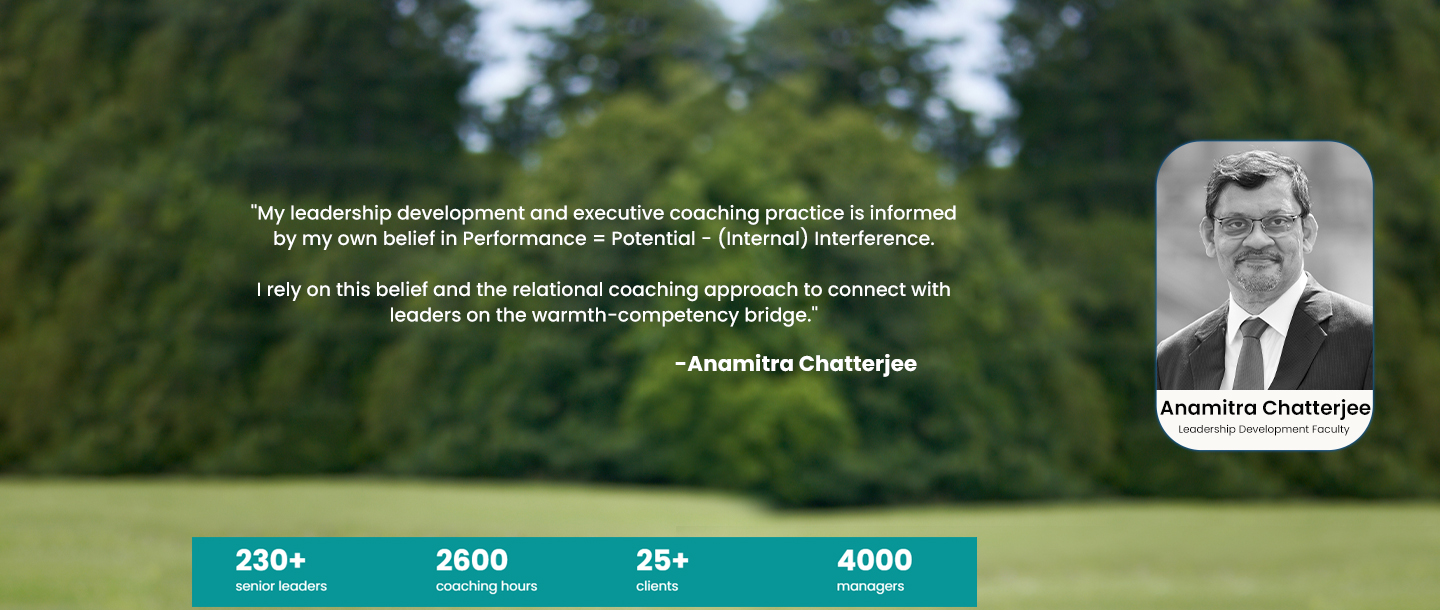
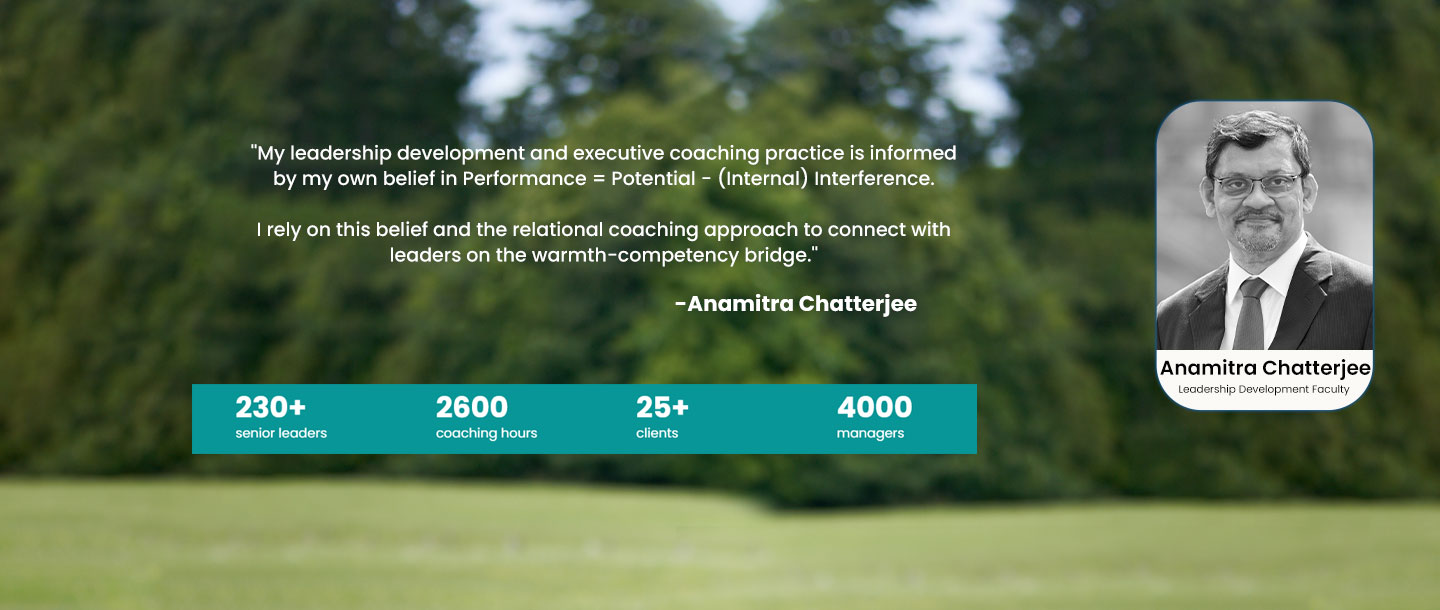
your message

diff --git a/assets/css/main.css b/assets/css/main.css
@@ -993,11 +993,13 @@ ul.pagination-wrap li.current span {
 
 .leadership-banner-wrap {
 	overflow: hidden;
-	background: url("../img/leadership-banner.jpg") no-repeat center;
+/*	background: url("../img/leadership-banner.jpg") no-repeat center;*/
 	height:609px;
 	background-size:cover;	
 }
-
+.leadership-banner-wrap img {
+    width: 100%;
+}
 
 .Organization-banner-wrap {
 	overflow: hidden;

diff --git a/myself.html b/myself.html
@@ -91,6 +91,7 @@
       </div>
 	  </div>-->
 		
+<!--
 	<div class="banner-wrap leadership-banner-wrap">
       <div class="container">
         <div class="row">
@@ -107,7 +108,10 @@
         </div>
       </div>
     </div>	
-			
+-->
+	<div class="leadership-banner-wrap">
+     <img src="assets/img/leadership-banner.jpg" alt="">
+  </div>		
 		
     <main class="main-wrapper">
 		
